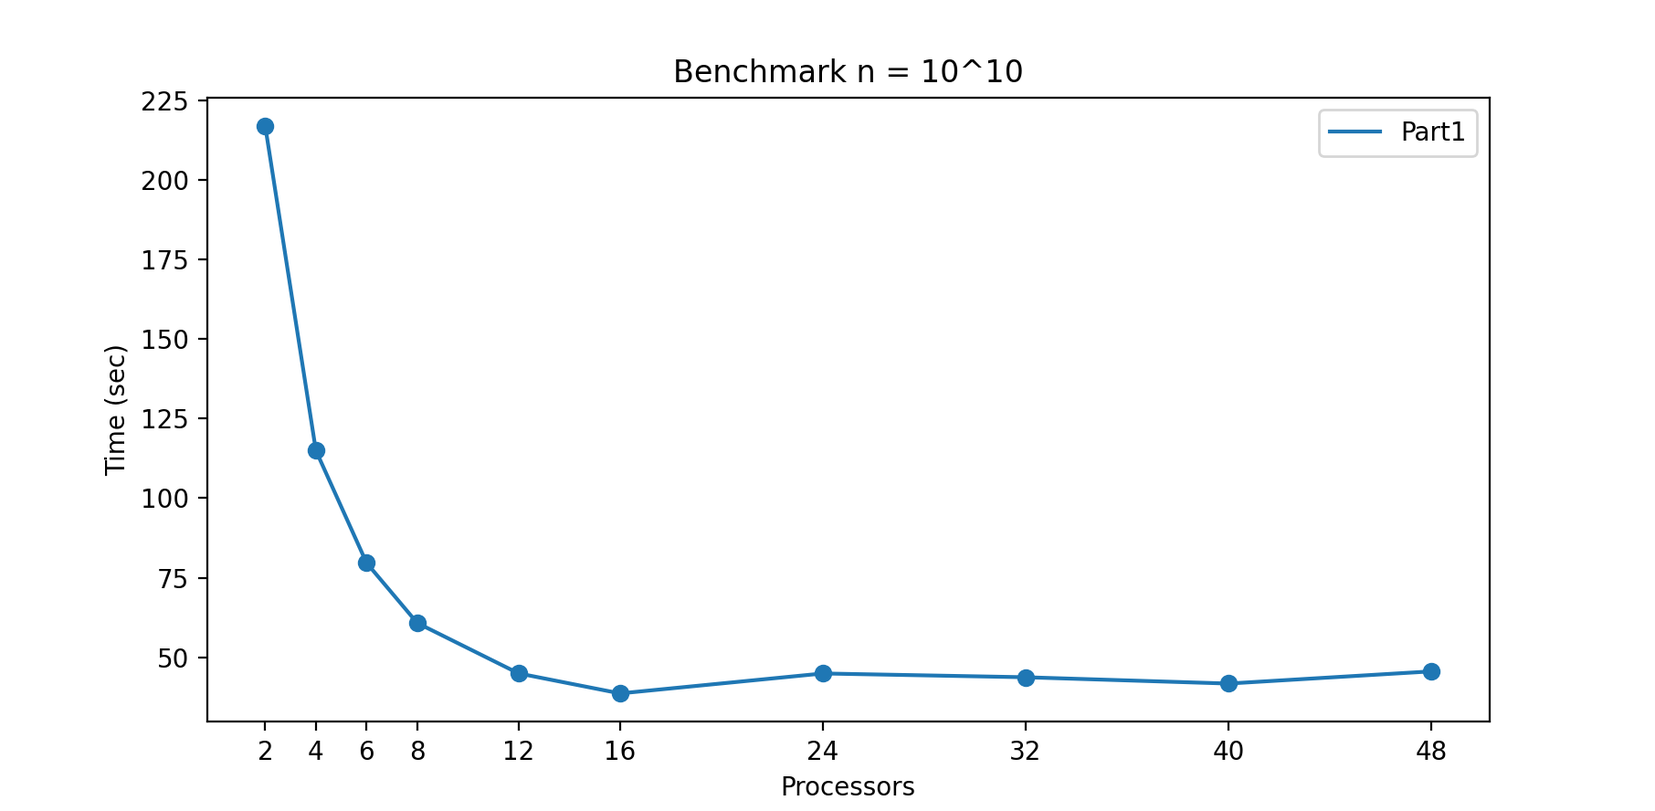
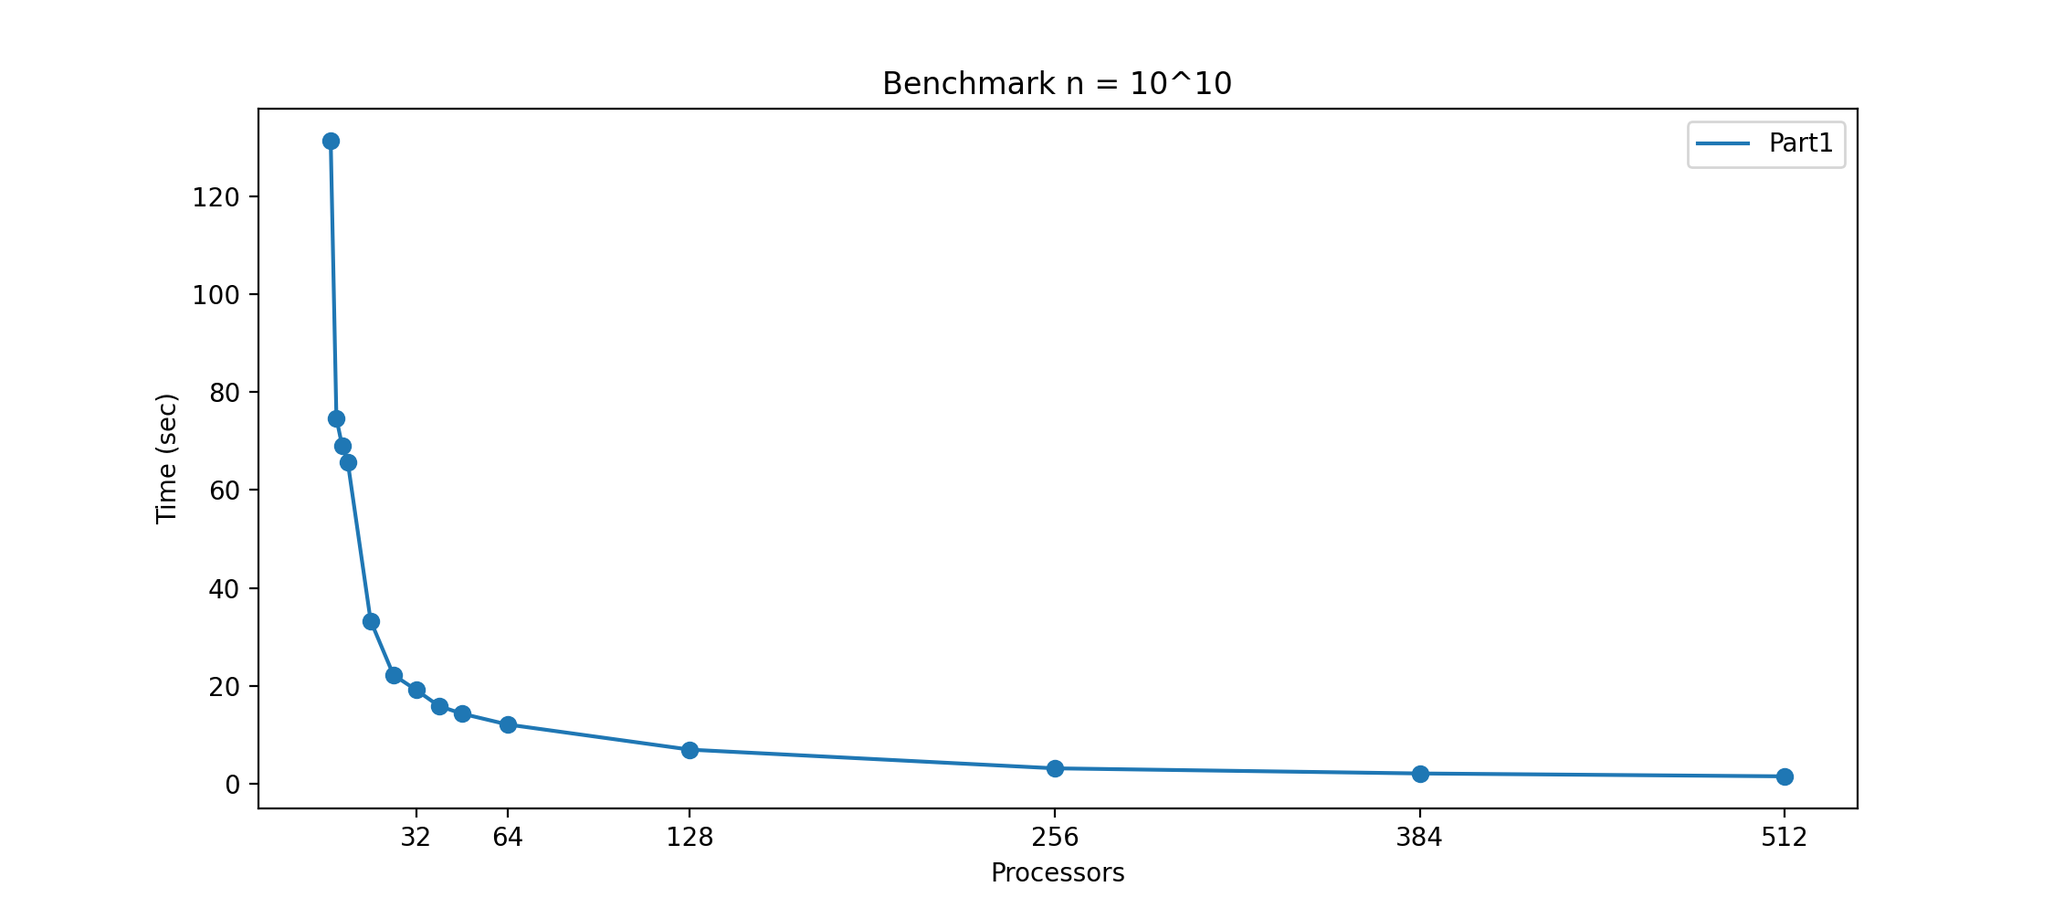
new report

diff --git a/ReadME.md b/ReadME.md
@@ -9,8 +9,12 @@
 | sieve3.c | code after finish Part3 | 
 | sieve4.c | code after finish Part4 |
 | sieve4_update.c | updated version of sieve4.c |
-| test_result.md | experimental results of each Part |
-
+| slurm1.job | slurm command to run on RM-shared with 8 cores |
+| slurm2.job | slurm command to run on RM-shared with 64 cores |
+| slurm3.job | slurm command to run on RM with 4 nodes |
+| slurm-1.out | slurm1 result |
+| slurm-2.out | slurm2 result |
+| slurm-3.out | slurm3 result |
 
 #### Compile
 ```
@@ -47,8 +51,8 @@ Obviously, with a fixed length array, after removing even number, we can expand 
 ##### Parallel segment array
 Input: p and n
 Output: number of primes within n  
-id: rank of processor
-We also should know the subarray length to malloc and the lower bound and upper bound of each processor's subarray  
+id: rank of process
+We also should know the subarray length to malloc and the lower bound and upper bound of each process's subarray  
 Firstly, we should konw the length of global array. 
 ```
 global_length = (n-3)/2 + 1
@@ -65,78 +69,71 @@ Last element controlled by process i: (i+1)*n/p-1
 ```
  
 ## 3. Experiment
-[Full Test Results](https://github.com/jindajia/ParallelPrimeFinder/blob/main/test_result.md)  
+**Full Test Result**
+
+If you want to check full test result, please read **slurm-1.out, slurm-2.out, slurm-3.out**
+
 ### Environment
-[**矩阵云**](https://matpool.com)  
-Intel Xeon Platinum 8260 CPU  
-16vCPU  
-RAM（GB）80  
-HDD（GB）200  
+[**Bridges-2 Regular Memory**](https://www.psc.edu/resources/bridges-2/)  
+
+**For Signle RM Node**
+-   NVMe SSD (3.84TB)
+-   Mellanox ConnectX-6 HDR Infiniband 200Gb/s Adapter
+-   Two AMD EPYC 7742 CPUS, each with:
+    -   64 cores
+    -   2.25-3.40GHz
+    -   256MB L3
+    -   8 memory channels  
+
+**For RM-shared Node**
+- Core count default: 1
+- Core count max: 64
+  
 
 ### Preset
 ```
 Input: n, p
 Output: number of primes within n
 n = 10^10
-p = [2,4,6,8,12,16,24,32,40,48]
+p = [2, 4, 6, 8, 16, 24, 32, 40, 48, 64, 128, 256, 384, 512]
 ```
 ### Performance
 #### Part1 - Adapting a Bigger Range  
 We know size of data type **Int** are 4 bytes, it's range is from -2,147,483,648 to  
 2,147,483,647, which is not enough to calculate primes within 10^10.  
 A **long long type** data  will guaranteed a minumim size with 8bytes. It will cover a range from -2<sup>63</sup> to 2<sup>63</sup> -1.  
-Belowed table showing the running time with different number of processors. 
-| Processors | 2   | 4   | 6   | 8   | 12  |
-|------------|-----|-----|-----|-----|-----|
-| Time(sec)  | 217.066358 | 114.980206 | 79.651480 | 60.756687 | 44.913472 |
-| Processors | 16  | 24  | 32  | 40  | 48  |
-| Time(sec)  | 38.630366 | 44.896393 | 43.708701 | 41.726906 | 45.551066 |
-
-When the number of processors is less than 16, doubling processors roughly reduces the running time to half of the orignal time.  
-However, when the number of processes exceeds 16, simply increasing the number of processes does not reduce the execution time; instead, it may cause a slight increase in the execution time.  
-![Chart](Figure/Part1.png)
-**Boundary.** With much more processors, processor0 will take more time to broadcast next prime. Suppose the BroadCast Algorithm is Binary tree algorithm.
-For instance, when we only have 4 processors, 2 iterations is enough, when the number of processors is 100, it will take 6 iterations.  
-| Iterations | 1 | 2 | 3 | 4 | 5 | 6 |
-|------------|---|---|---|---|---|---|
-| Max Receivers | 3 | 7 | 15 | 31 | 63 | 127 |
+Belowed table showing the running time with different number of cores. 
+| Cores | 2   | 4   | 6   | 8   | 16  | 24  | 32  | 40  | 48  | 64  | 128 | 256 | 384 | 512 |
+|------------|-----|-----|-----|-----|-----|-----|-----|-----|-----|-----|-----|-----|-----|-----|
+| Time(sec)  | 131.340222 | 74.648559 | 69.071211 | 65.641554 | 33.30611 | 22.234583 | 19.148118 | 15.87571 | 14.331761 | 12.111386 | 6.971425 | 3.155523 | 2.10833 | 1.520438 |
+![Chart](https://github.com/jindajia/ParallelPrimeFinder/raw/main/Figure/Part1.png)It can be observed that as the number of cores increases, the running time decreases. 
+In an ideal scenario, when we double the number of cores, we expect the program's running time to be halved, or in other words, we hope to achieve a **linear relationship** between speed and number of cores. 
+ $$speed = k \*p $$
+Speed represents the program's execution speed, p represents the number of cores, and k is a constant. Here, we can represent the value of speed using the measured data of running time, denoted as `t`, where `speed = 1/t`.
+![Speed-Core](https://github.com/jindajia/ParallelPrimeFinder/raw/main/Figure/Speed-Core-Part1.png)
+It can be observed that the running speed and the number of cores satisfy the predicted linear relationship. As the number of cores increases, the running speed linearly increases.
 
 **Two main time-consuming factors**
-For a single processor i, it has two main time consuming factors during sieving. 
+For a single process i, it has two main time consuming factors during sieving. 
 **1. marking array 2. waiting for next prime**  
 
 **Marking Array**  
-Suppose processor i just receive a new prime **pme** for sieving. Processor will hold an array, it will represent **(n-1)/p** continous number. To sieve **pme**, the for loop will roughly iterate **(n-1)/p/pme** times. Thus, marking will take m seconds.
+Suppose process i just receive a new prime **pme** for sieving. Process will hold an array, it will represent **(n-1)/p** continous number. To sieve multiples of **pme**, we need to mark **m** elements. 
 $$m = (n-1)/p/pme $$ 
 **Waiting for next Prime**  
-When sieving primes, processor0 need to broadcast next prime to all the other processors. 
-Suppose each broadcast iteration takes x sec, we have p processors, the last processor will get the message later than the first reciver d seconds. 
+When sieving primes, process0 need to broadcast next prime to all the other processs. 
+Suppose each broadcast iteration takes x sec, we have p processs, the last process will get the message later than the first reciver d seconds. 
 
 $$d = x \left \lfloor  \log_{2}{p}  \right \rfloor$$
-**When Pme is Large**  
-It is evident that the prime values used for sieving will become larger and larger. For n = 10<sup>10</sup>, the maximum prime value used for sieving is 10<sup>5</sup>. Consequently, the marking time decreases as the prime values increase.    
-$$ m \downarrow \left (  pme\to \sqrt{n} \right ) $$  
 
-However, the broadcasting time is independent of the size of the prime values. As the prime values increase, broadcasting becomes the primary factor contributing to the overall execution time  
 
-**Accumulation of Broadcasting Time**  
-When n is very large, processor0 will broadcast more time. With all these times accumulated, it may take a lot. 
-Suppose we have a  **n = 10<sup>10</sup>**, processor0 need to broadcast all primes within **sqrt(n) = 10<sup>5</sup>** to others. After calculation, there are 1229 primes within 10^5, so processor0 will broadcast  1228 times. The total delay caused by broadcast is D.  
-$$D = 1228 \* d = 1228\*x \left \lfloor  \log_{2}{p}  \right \rfloor $$
 #### Part2 - Deleting even numbers
-The table belowed is the testing result after deleting even number from array.  
-Comparing belowed chart, we can find that with same number of processors, Part2's running time is roughly half of Part1's.
-| Processors | 2  | 8  | 16 | 32 |
-|------------|----|----|----|----|
-| Part1      | 217.066358 | 60.756687 | 38.630366 | 43.708701 |
-| Part2      | 104.036097 | 30.222937 | 19.798627 | 22.980402 |
 
-![Chart](Figure/Part2_vs_Part1.png)
+**Analysis**  
 
-##### Analysis
-We have already konwn that, two main time-consuming factors are **loop of marking** and **broadcasting**.
-After removing even number from array. It will reduce the marking time half of the original one. Let's take a look.  
-Suppose we have n and p and processor i. It has an array and the length of it is roughly (n-1)/p/2. When marking this array, because there is no even number in the array, so we can add 2*pme each time. The new marking time is m<sub>2</sub>. It's only half of Part1 marking time m.
+We have already konwn that, two main time-consuming factors are **loop of marking** and **broadcasting**. For single process, it marks `m = (n-1)/p/pme` elements when sieving `pme`. 
+After removing even number from array, the number of elements we need to mark is reduced to half of its original quantity. Let's take a look.  
+Suppose we have n and p and process i. It has an array and the length of it is roughly (n-1)/p/2. When marking this array, because there is no even number in the array, so we can add 2*pme each time. The new marking time is m<sub>2</sub>. It's only half of m.
 $$m_{2}  = (n-1)/p/2/pme $$ 
 Let's see an example.
 ```
@@ -154,57 +151,94 @@ Part2: first_element = 51 last element = 99  length = 25
 Part1 will mark elements representing [51, 54, 57, 60, 63, 66 ... 99], total 16 members.
 Part2 will mark elements representing [51,       57,        63,          99], total   9 members.
 
+**Prediction**
+Based on the analysis above, we can speculate that the running time of Part2 will be half that of Part1, and the running speed will be twice as fast as Part1.
+
+**Result**
+
+Part2 is the testing result after deleting even number from array.  
+| Cores | 2   | 4   | 6   | 8   | 16  | 24  | 32  | 40  | 48  | 64  | 128 | 256 | 384 | 512 |
+|-------|-----|-----|-----|-----|-----|-----|-----|-----|-----|-----|-----|-----|-----|-----|
+| Part1 | 131.340222 | 74.648559 | 69.071211 | 65.641554 | 33.306110 | 22.234583 | 19.148118 | 15.875710 | 14.331761 | 12.111386 | 6.971425 | 3.155523 | 2.108330 | 1.520438 |
+| Part2 | 58.344136 | 36.322337 | 32.985175 | 30.329684 | 12.396677 | 11.436865 | 9.723257 | 8.230217 | 7.189540 | 6.156372 | 3.005913 | 1.425318 | 0.910984 | 0.624564 |  
+![Part2_Part1_Speed](https://github.com/jindajia/ParallelPrimeFinder/raw/main/Figure/Part2vsPart1.png)
+![Part2vsPart1](https://github.com/jindajia/ParallelPrimeFinder/raw/main/Figure/Part2_Part1_Speed.png)
+After conducting experiments with different numbers of cores and comparing the running speeds of Part1 and Part2, it was observed that the running speed of Part2 is approximately twice as fast as Part1. The experiment aligns with the expected results.  
+
 #### Part3 - Removing Broadcast
-One of time-consuming operations is broadcasting. OpenMPI has offered 6 broadcasting algorithms which are basic linear, chain, pipeline, split binary tree, binary tree, binomial tree. In this report, we only care about binary tree algorithm, which is more common and efficient.
-When the number of processors increased, each time of broadcasting will take more iterations. $$iterations =  \left \lfloor  \log_{2}{p}  \right \rfloor$$
-Because each iteration takes roughly same amount of time, increasing processors will also increasing time on broadcasting. The single broadcast time rises logarithmically.  
+**When Pme is Large**  
+It is evident that the prime values used for sieving will become larger and larger. For n = 10<sup>10</sup>, the maximum prime value used for sieving is 10<sup>5</sup>. 
+Consequently, the number of elements we need to mark decreases as the prime values increase.    
+$$ m \downarrow \left (  pme\to \sqrt{n} \right ) $$  
+
+However, the broadcasting time is independent of the size of the prime values. As the prime number used for filtering increases, the proportion of time spent on broadcasting also gradually increases, thereby affecting efficiency.
+
+**Accumulation of Broadcasting Time**  
+We already know that, process0 need to broadcast all primes within `sqrt(n)` to other processes. When n is large, process0 need to broadcast many times. 
+Suppose we have  **n = 10<sup>10</sup>**, process0 need to broadcast all primes within **sqrt(n) = 10<sup>5</sup>** to others. After calculation, there are 1229 primes within 10^5, so process0 will broadcast  1228 times. The total delay caused by broadcast is D.  
+$$D = 1228 \* d = 1228\*x \left \lfloor  \log_{2}{p}  \right \rfloor$$
+
+**Iteration within a single Broadcasting**
+
+OpenMPI has offered 6 broadcasting algorithms which are basic linear, chain, pipeline, split binary tree, binary tree, binomial tree. In this report, we only care about binary tree algorithm, which is more common and efficient.
+When the number of processs increased, each time of broadcasting will take more iterations. $$iterations =  \left \lfloor  \log_{2}{p}  \right \rfloor$$
+Because each iteration takes roughly same amount of time, increasing processes will also increasing time on broadcasting. The single broadcast time rises logarithmically.  
+**Broadcasting**
+With much more processes, process0 will take more times to broadcast next prime. Suppose the Broadcast Algorithm is Binary tree broadcasting.
+For instance, when we only have 4 processes, 2 iterations is enough, when the number of processes is 100, it will take 6 iterations.  
+| Iterations | 1 | 2 | 3 | 4 | 5 | 6 |
+|------------|---|---|---|---|---|---|
+| Max Receivers | 3 | 7 | 15 | 31 | 63 | 127 |
+**Result**
 Let's take a look of our result. Part3 is the result after removing broadcasting mechanism.
-| Processors | 2  | 4  | 6  | 8  | 12 |
-|------------|----|----|----|----|----|
-| Part2      | 104.036097 | 55.539209 | 35.828890 | 30.222937 | 24.481947 |
-| Part3      | 104.424584 | 55.730943 | 38.704724 | 29.696898 | 21.812350 |
-| Processors | 16 | 24 | 32 | 40 | 48 |
-| Part2      | 19.798627 | 23.285952 | 22.980402 | 23.521662 | 25.851293 |
-| Part3      | 18.949695 | 20.028688 | 19.638265 | 20.145718 | 18.619690 |
+| Cores | 2   | 4   | 6   | 8   | 16  | 24  | 32  | 40  | 48  | 64  | 128 | 256 | 384 | 512 |
+|-------|-----|-----|-----|-----|-----|-----|-----|-----|-----|-----|-----|-----|-----|-----|
+| Part2 | 58.344136 | 36.322337 | 32.985175 | 30.329684 | 12.396677 | 11.436865 | 9.723257 | 8.230217 | 7.189540 | 6.156372 | 3.005913 | 1.425318 | 0.910984 | 0.624564 |
+| Part3 | 63.402072 | 35.648821 | 30.611544 | 31.492965 | 15.529814 | 11.318744 | 9.435255 | 7.968104 | 6.596050 | 5.218180 | 2.919558 | 1.383011 | 0.850719 | 0.576781 |
 
-![Chart](Figure/Part2vsPart3.png)
+![Part3_Part2_Speed](https://github.com/jindajia/ParallelPrimeFinder/raw/main/Figure/Part3vsPart2.png)
+![Part3vsPart2](https://github.com/jindajia/ParallelPrimeFinder/raw/main/Figure/Part3_Part2_Speed.png)
+![Part3vsPart2_Ratio](https://github.com/jindajia/ParallelPrimeFinder/raw/main/Figure/Part3_Part2_Ratio.png)
 
-We can see that, when the number of  processors are less or equal than 6, Part2 is slightly faster than Part3. However, when processors more than 6, Part3 will save more excution time.  
+Based on the above charts, we can observe that when the number of processes is small, the impact of removing the broadcasting mechanism on the computation time is minimal. 
 
-**Size of Processors** 
+In fact, in some cases, when the number of processes is extremely low, the computation time may be slightly higher without the broadcasting mechanism. 
 
-In the previous part, we talked about iteration times when broadcasting messages. When the number of processors is large, each time of broadcasting takes more time.  
+**Number of Proceses** 
 
-**Why Part2 is slightly faster than Part3 when processors is not to many?**  
+In the previous part, we talked about iteration times when broadcasting a message. When the number of processes are large, each time of broadcasting takes more time.  
 
-To remove broadcasting, each processor will hold a prime array used for sieving. Thus, not only processor0 need to calculate primes within sqrt(n), all processors should do that.  
+As the number of processes increases, when it exceeds 256, the computation time with the broadcasting mechanism removed is only about 91% of the original time, resulting in approximately 9% savings in computation time.
 
-*Therefore, when the number of processors is small, the time saved by reducing the broadcasting is not substantial. However, computing all prime numbers less than the square root of n takes more time.*
+**Why Part2 is slightly faster than Part3 when processes are not to many?**  
+
+To remove broadcasting, each process will hold a prime array used for sieving. Thus, not only process0 need to calculate primes within sqrt(n), all processs should do that.  
+
+*Therefore, when the number of processes is small, the time saved by reducing the broadcasting is not substantial. However, computing all prime numbers less than the square root of n takes more time.*
 #### Part4 - Increasing Cache Hit
 After Part3, we already removed broadcasting mechanism, so we only care about **time spend on marking**.  
 
 **Time Spend on Marking**  
 
-There are also two factors when marking array. **First**, **how many loops it will take** is important.  **Second**, when marking an element, we simlpy set this element's value to 1. To do that, we need to access this element. How long will **a single time of access operation takes** affecting  marking time.  
-To reduce the access time, I attempted to increase the L1 cache hit rate. In my running environment, the Intel processor had an L1 cache size of 32K (in bytes).  
+There are also two factors when marking array. 
+**First**, **how many loops it will take** is important.  
+**Second**, when marking an element, we simlpy set this element's value to 1 `(marked[i] = 1)`. To do that, we need to access this element. How long will **a single time of access operation takes** affects time spend on marking.  
+To reduce the access time, I attempted to increase the L1 cache hit rate. In my running environment, the process had an L1 cache size of 32K (in bytes).  
 Therefore, I divided the arrays assigned to each process into segments of length 32K, and the test results are as follows.
-| Processors | 2  | 4  | 6  | 8  | 12 |
-|------------|----|----|----|----|----|
-| Part3      | 104.424584 | 55.730943 | 38.704724 | 29.696898 | 21.812350 |
-| Part4      | 71.998348 | 37.379297 | 25.333567 | 15.576962 | 13.478113 |
-| Processors | 16 | 24 | 32 | 40 | 48 |
-| Part3      | 18.949695 | 20.028688 | 19.638265 | 20.145718 | 18.619690 |
-| Part4      | 10.231363 | 10.063106 | 9.430258 | 9.483221 | 9.317979 |
+| Cores | 2   | 4   | 6   | 8   | 16  | 24  | 32  | 40  | 48  | 64  | 128 | 256 | 384 | 512 |
+|-------|-----|-----|-----|-----|-----|-----|-----|-----|-----|-----|-----|-----|-----|-----|
+| Part3 | 63.402072 | 35.648821 | 30.611544 | 31.492965 | 15.529814 | 11.318744 | 9.435255 | 7.968104 | 6.596050 | 5.218180 | 2.919558 | 1.383011 | 0.850719 | 0.576781 |
+| Part4 | 55.732597 | 30.266950 | 20.624443 | 16.080076 | 8.027016 | 5.428616 | 3.839528 | 3.076881 | 2.510904 | 2.150971 | 1.042354 | 0.477985 | 0.341598 | 0.247489 |
 
-![Chart](Figure/Part3vsPart4.png)
+![Part4_Part3_Speed](https://github.com/jindajia/ParallelPrimeFinder/raw/main/Figure/Part4vsPart3.png)
+![Part4vsPart3](https://github.com/jindajia/ParallelPrimeFinder/raw/main/Figure/Part4_Part3_Speed.png)
+![Part4vsPart3_Ratio](https://github.com/jindajia/ParallelPrimeFinder/raw/main/Figure/Part4_Part3_Ratio.png)
 
-We can see that, after increasing hiting rate, the execution time will reduced significanly, when there are 4 processors, the running time will be reduced 33% of the original time. When the number of processors are more than 24, running time will be reduced 50%.  
+We can see that, after increasing hiting rate, the execution time will reduced significanly, when there are 6 processes, the running time will be reduced 33% of the original time. When the number of processes are more than 8, running time will be reduced more than 50%.  
 
-**Observation**  
+When the amount of processes are  large, the running time takes half of the original time.  
 
-With these results, we can see that, when the amount of processors are  large, the running time takes half of the original time.  
-
-**When number of processors are small, improvement is not as much as when we have a lot of processors**  
+**When number of processes are small, improvement is not as much as when we have a lot of processes**  
 
 When the number of processes is large, increasing the cache hit rate can lead to an efficiency close to 100%. However, why is it that when the number of processes is small, the performance improvement does not reach 100%, but only around 70%?   
 
@@ -220,7 +254,7 @@ A smaller `segment ratio`  `s:l` implies a more scattered array segmentation. Co
 
 We already found that if we segmented the array length too short, the runtime efficiency would significantly decrease. After analysis, I hypothesized that this phenomenon is mainly caused by an increase in **iterations of the marking operation**. At the beginning of each iteration, certain calculations are required, including:  
 
-**1. Finding the next prime number as a multiplier for the sieve.**  
+**1. Finding the next prime number as a multiplier for  sieving.**  
 
 **2. Performing the multiplication operation `prime * prime` to set the position of the first index.** When the value of `prime` is large, this multiplication operation becomes time-consuming.  
 
@@ -237,25 +271,24 @@ $$ u \approx l/s\*(p_{n+1}- p_{n}) ~(n ~from~ 1~ to\sqrt{n}  )$$
 **Store required prime numbers in a contiguous array.**  
 
 After storing required prime in advance, the program yielded the following test results.
-| Processors | 2  | 4  | 6  | 8  | 12 |
-|------------|----|----|----|----|----|
-| Part4      | 71.998348 | 37.379297 | 25.333567 | 15.576962 | 13.478113 |
-| Update     | 59.681592 | 30.604949 | 21.212724 | 15.576962 | 10.892023 |
-| Processors | 16 | 24 | 32 | 40 | 48 |
-| Part4      | 10.231363 | 10.063106 | 9.430258 | 9.483221 | 9.317979 |
-| Update     | 8.259007 | 8.499409 | 7.788888 | 7.825964 | 7.800874 |
+| Cores | 2   | 4   | 6   | 8   | 16  | 24  | 32  | 40  | 48  | 64  | 128 | 256 | 384 | 512 |
+|-------|-----|-----|-----|-----|-----|-----|-----|-----|-----|-----|-----|-----|-----|-----|
+| Part4 | 55.732597 | 30.266950 | 20.624443 | 16.080076 | 8.027016 | 5.428616 | 3.839528 | 3.076881 | 2.510904 | 2.150971 | 1.042354 | 0.477985 | 0.341598 | 0.247489 |
+| Update| 57.627297 | 28.875504 | 17.369307 | 13.346055 | 7.176643 | 4.355179 | 3.355896 | 2.464973 | 2.332710 | 1.629199 | 0.832257 | 0.402538 | 0.249635 | 0.185892 |
 
-![Chart](Figure/Part4_update.png)
 
-The improved Part 4 utilizes a contiguous array to pre-store the necessary prime data. We observe a 17% reduction in the algorithm's runtime compared to the original version.  
+![Chart](https://github.com/jindajia/ParallelPrimeFinder/raw/main/Figure/Part4vsUpdate.png)
+![Chart](https://github.com/jindajia/ParallelPrimeFinder/raw/main/Figure/Part4_Update_Speed.png)
+The improved Part 4 utilizes a contiguous array to store the necessary prime data in advance. When number of processes are 512, after storing primes in advance, 25% running time will be reduced.
 
 **Benchmark** 
 Depicting the results of these five different test cases in a chart, as shown below.
-![Chart](Figure/Figure_1.png)
+![Chart](https://github.com/jindajia/ParallelPrimeFinder/raw/main/Figure/Benchmark_Time.png)
+![Chart](https://github.com/jindajia/ParallelPrimeFinder/raw/main/Figure/Benchmark_Speed.png)
 
 ### Future Improvement Maybe
 **Pre store prime*prime**
-At the beginning of the marking process, we need to calculate the initial index position using the result of `prime * prime`. We already reorganized the loop structure in Part4 to increase cache hits. The same prime is used up to `l/s` times in each processor.  
+At the beginning of the marking process, we need to calculate the initial index position using the result of `prime * prime`. We already reorganized the loop structure in Part4 to increase cache hits. The same prime is used up to `l/s` times in each process.  
 **One effective approach is to store the `prime * prime` values for frequently used larger primes, allowing for direct retrieval in subsequent iterations.** 
 However, the selection of primes presents a research-worthy question. When primes are small, the time spent searching for the corresponding square value in the hash array may exceed the time required for direct calculation. When primes are large, their probability of being used for sieving decreases.
 
